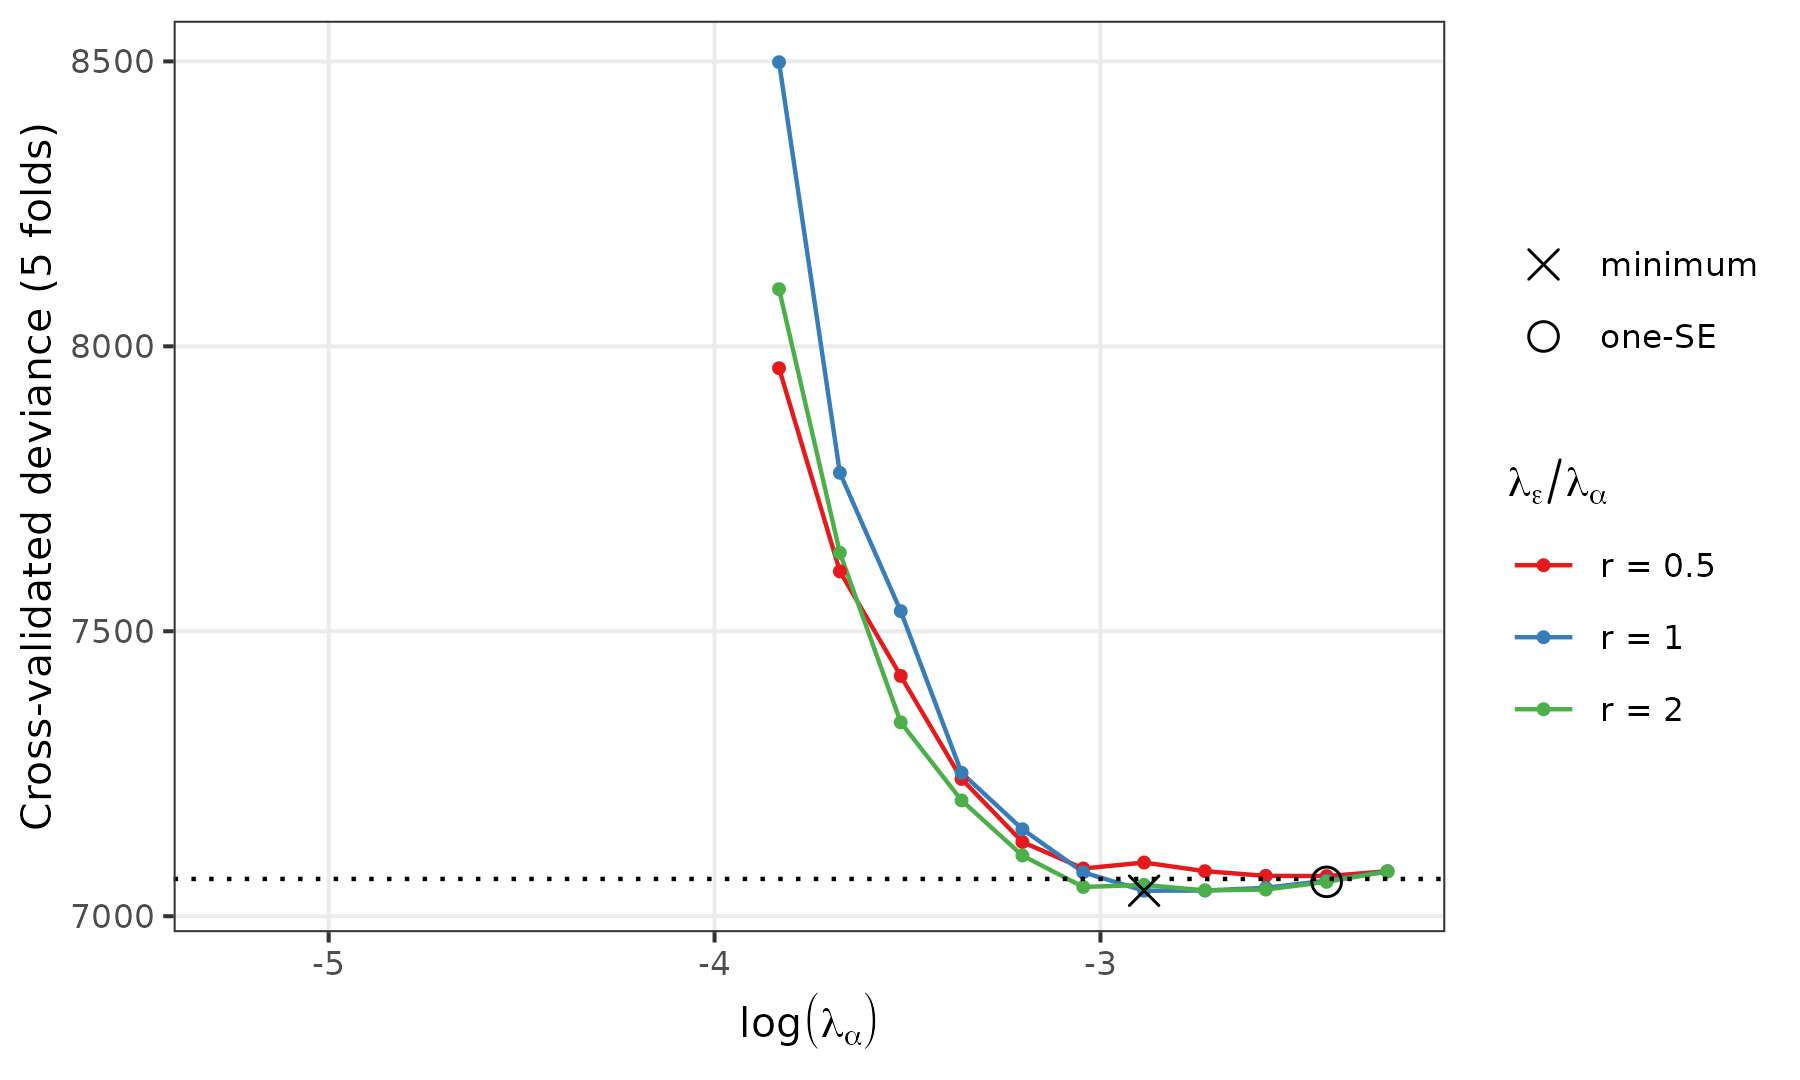
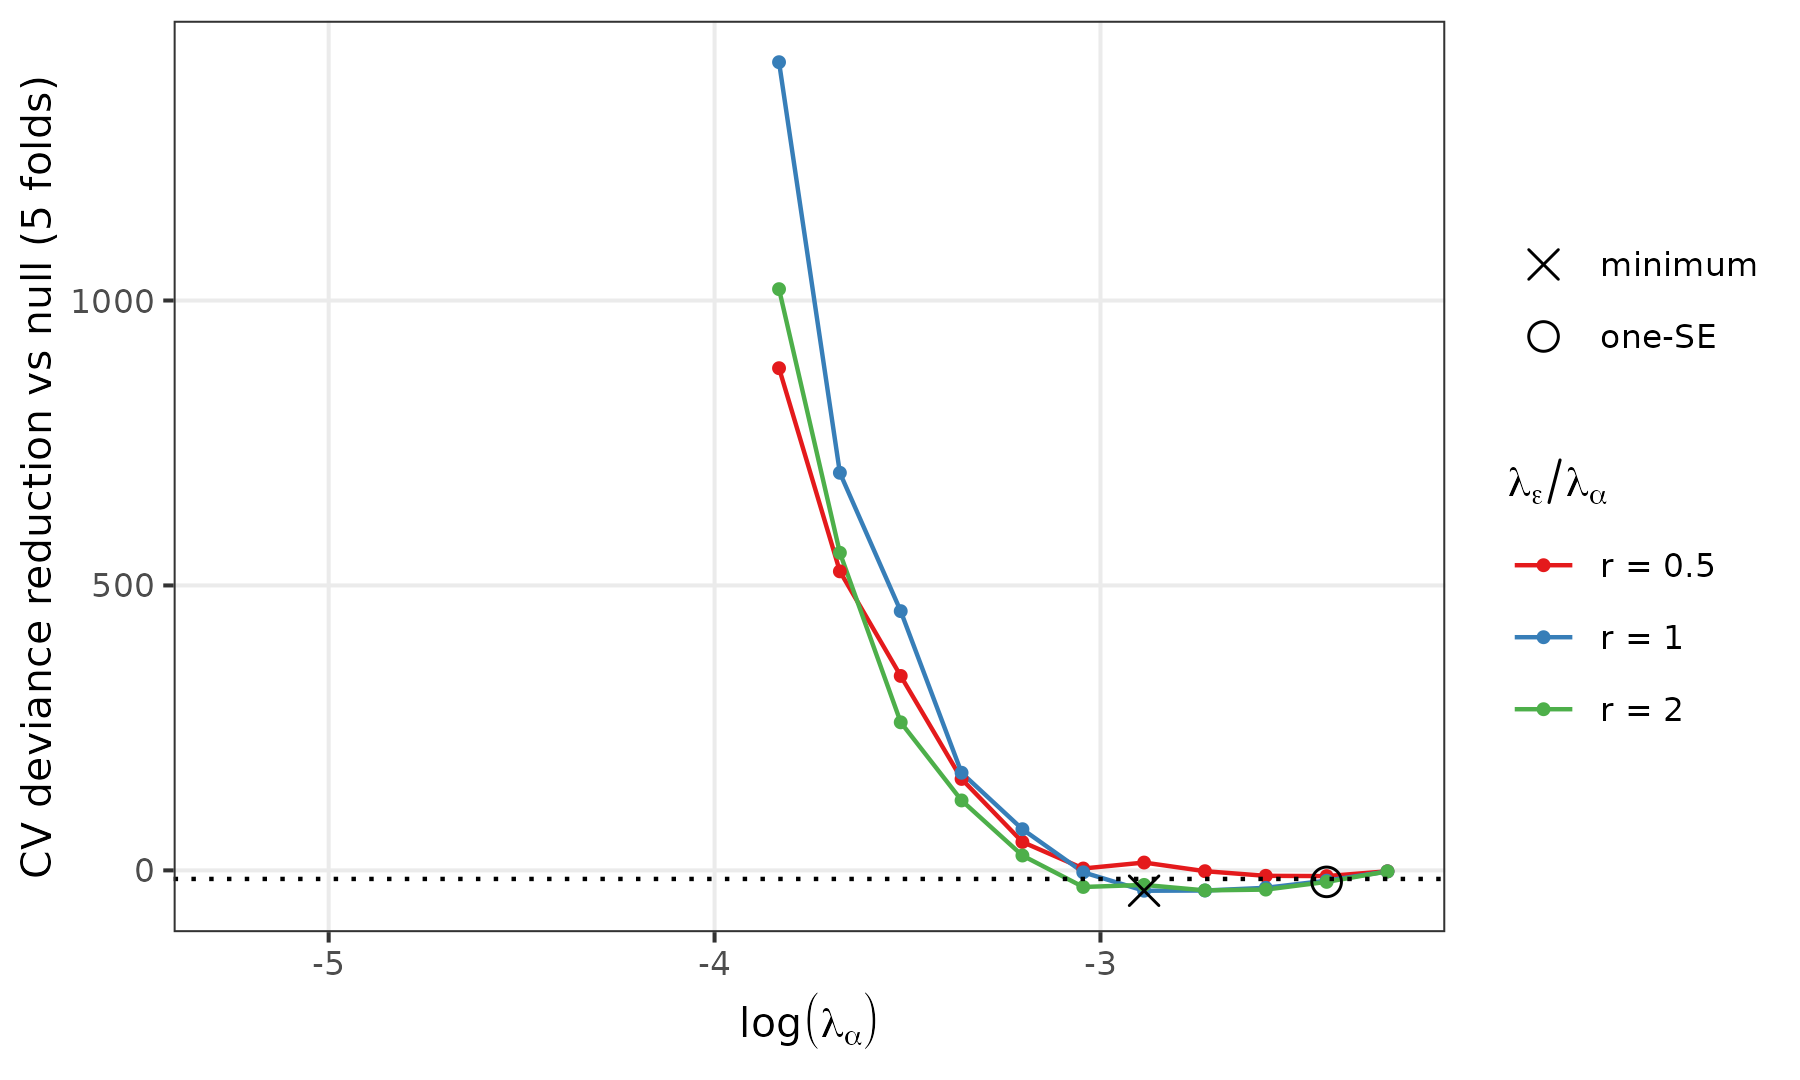
Add files via upload

diff --git a/output/tables/tab_app_methods.tex b/output/tables/tab_app_methods.tex
@@ -4,17 +4,17 @@
 \cmidrule(lr){2-3}\cmidrule(lr){4-5}
 Method & min & 1-SE & min & 1-SE & CV time (s) \\
 \midrule
-MCP, hierarchical (proposed) & 6 & 2 & 1 & 0 & 10.1 \\
-SCAD, hierarchical (proposed) & 8 & 8 & 0 & 0 & 5.1 \\
-Lasso, hierarchical & 42 & 33 & 1 & 0 & 2.3 \\
-Elastic net, hierarchical & 59 & 37 & 3 & 0 & 2.3 \\
-MCP, stratified common effects & 4 & 2 & -- & -- & 2.1 \\
-SCAD, stratified common effects & 8 & 8 & -- & -- & 1.7 \\
-Lasso, stratified common effects & 56 & 33 & -- & -- & 0.6 \\
+MCP, hierarchical (proposed) & 6 & 2 & 1 & 0 & 10.8 \\
+SCAD, hierarchical (proposed) & 8 & 8 & 0 & 0 & 7.1 \\
+Lasso, hierarchical & 42 & 33 & 1 & 0 & 5.1 \\
+Elastic net, hierarchical & 59 & 37 & 3 & 0 & 4.3 \\
+MCP, stratified common effects & 4 & 2 & -- & -- & 2.9 \\
+SCAD, stratified common effects & 8 & 8 & -- & -- & 4.0 \\
+Lasso, stratified common effects & 56 & 33 & -- & -- & 0.5 \\
 Elastic net, stratified common effects & 60 & 37 & -- & -- & 0.5 \\
-MCP, naive pooling & 5 & 4 & -- & -- & 2.2 \\
-SCAD, naive pooling & 19 & 5 & -- & -- & 1.5 \\
-Lasso, naive pooling & 60 & 32 & -- & -- & 0.6 \\
-Elastic net, naive pooling & 64 & 44 & -- & -- & 0.5 \\
+MCP, naive pooling & 5 & 4 & -- & -- & 2.3 \\
+SCAD, naive pooling & 19 & 5 & -- & -- & 1.6 \\
+Lasso, naive pooling & 60 & 32 & -- & -- & 0.7 \\
+Elastic net, naive pooling & 64 & 44 & -- & -- & 0.7 \\
 \bottomrule
 \end{tabular}

diff --git a/README.md b/README.md
@@ -105,7 +105,8 @@ within one SE) are returned from the same run.
 │   ├── 01_run_simulation.R           Monte Carlo runner; resumable
 │   ├── 02_make_tables_figures.R      aggregates results WITHOUT refitting
 │   ├── 03_oracle_study.R             oracle experiment (Section 5.5); resumable
-│   ├── 04_oracle_tables_figures.R    Tables 4-5 and Figures 5-6
+│   ├── 04_oracle_tables_figures.R    Tables 4-6 and Figures 5-6
+│   ├── 05_near_cancellation.R        near-cancellation experiment (Section 5.5)
 │   ├── run_all.sh                    runs both experiments (R = 50; oracle R = 200)
 │   └── results/                      per-replicate CSVs, summaries, run log
 │
@@ -148,11 +149,12 @@ transfer the table values from `output/tables/`.
 | 3 | Coverage of post-selection Wald intervals | same | `tab_sim_coverage.tex` |
 | 4 | Oracle experiment: support recovery, equality with the oracle | `simulation/04_oracle_tables_figures.R` | `tab_oracle_selection.tex` |
 | 5 | Oracle experiment: bias, SD/SE, coverage, efficiency, normality | same | `tab_oracle_inference.tex` |
-| 6 | Cohort characteristics | `application/03_make_tables_figures.R` | `tab_cohorts.tex` |
-| 7 | Genes selected by each method | same | `tab_app_methods.tex` |
-| 8 | Selected genes: HR, 95% CI, p, stability | same | `tab_app_genes.tex` |
-| 9 | Stratified vs frailty vs pooled hazard ratios | same | `tab_app_frailty.tex` |
-| 10 | Leave-one-study-out C-index | same | `tab_app_loso.tex` |
+| 6 | Near-cancellation experiment: Theorem 4.2 check and algorithm check | same (from `05_near_cancellation.R` output) | `tab_nearcancel.tex` |
+| 7 | Cohort characteristics | `application/03_make_tables_figures.R` | `tab_cohorts.tex` |
+| 8 | Genes selected by each method | same | `tab_app_methods.tex` |
+| 9 | Selected genes: HR, 95% CI, p, stability | same | `tab_app_genes.tex` |
+| 10 | Stratified vs frailty vs pooled hazard ratios | same | `tab_app_frailty.tex` |
+| 11 | Leave-one-study-out C-index | same | `tab_app_loso.tex` |
 | A1 | All scenarios, all methods | `simulation/02_make_tables_figures.R` | `tab_sim_all.tex` |
 
 Long-format results with Monte Carlo standard errors are in
@@ -279,7 +281,8 @@ near-cancelled cells where a deviation almost cancels the global effect).
 ```bash
 cd simulation
 NCORES=8 Rscript 03_oracle_study.R 200    # 4 study sizes x 200 replicates
-Rscript 04_oracle_tables_figures.R        # Tables 4-5 and Figures 5-6 -> output/
+NCORES=8 Rscript 05_near_cancellation.R 100   # Theorem 4.2, condition (b)
+Rscript 04_oracle_tables_figures.R        # Tables 4-6 and Figures 5-6 -> output/
 ```
 
 This experiment verifies the oracle theory for the proposed hierarchical MCP and
@@ -292,15 +295,23 @@ reduced parameters, the estimate, the oracle estimate and SE, and the coverage
 of the refitted Wald interval. Three tuning strategies are compared: the
 boundary rate of Remark 4.2, lambda = 1.1 sqrt(log(max(p, N)) / N), and the two
 cross-validation rules. About 7 hours on one core; divide by `NCORES`.
+
+The near-cancellation experiment (`05_near_cancellation.R`, about 30 minutes)
+tests condition (b) of Theorem 4.2, including the multiplicity q(c) of an
+alternative coefficient value. For each replicate it records two separate things:
+whether the majority representation has the smallest penalty among all feasible
+representations of the oracle fit (the theorem's claim, checked exactly), and
+whether the algorithm returns it, and if not, whether the algorithm stopped at a
+local minimiser with a larger objective than the oracle point.
 `./run_all.sh` runs both simulation experiments.
 
 ### Real data (Section 6)
 
 ```bash
 cd application
-Rscript 01_prepare_data.R            # Table 6 data, p = 500 genes
+Rscript 01_prepare_data.R            # Table 7 data, p = 500 genes
 Rscript 02_fit_and_infer.R           # all fits, inference, validation (~45 min)
-Rscript 03_make_tables_figures.R     # Tables 6-10 and Figures 7-10 -> output/
+Rscript 03_make_tables_figures.R     # Tables 7-11 and Figures 7-10 -> output/
 ```
 
 The small CSV outputs behind every application table are committed in
